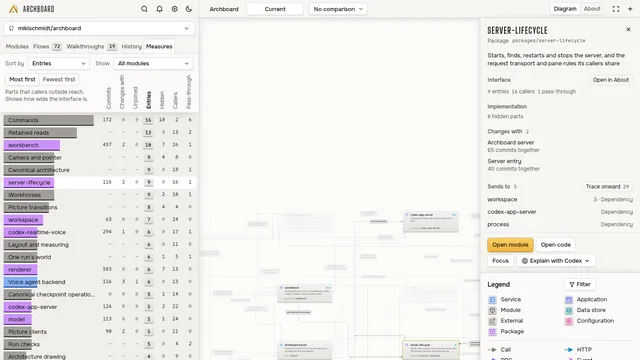
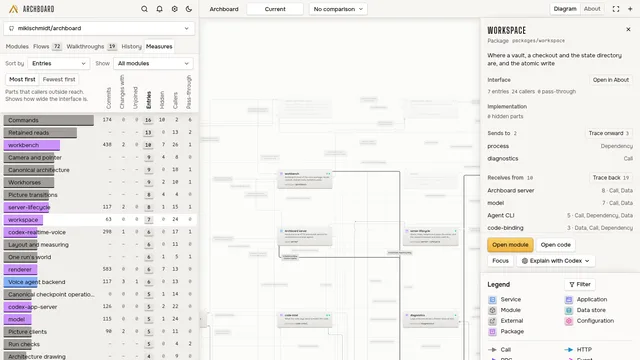
docs(readme): film the design smells clip with workspace
The Entries beat needs a module with several entries and no hidden
parts. server-lifecycle now has one hidden part, so workspace takes
the beat. README.md names the new clip and its counts.

Refs: TASK-564

diff --git a/scripts/readme-assets/design-smells.ts b/scripts/readme-assets/design-smells.ts
@@ -59,7 +59,7 @@ const BLANK_SPREAD = 6;
 /** The module each beat shows, by its name in the model. */
 const BEATS = {
 	unjoined: "Walkthrough recording",
-	shallow: "server-lifecycle",
+	shallow: "workspace",
 	passThrough: "Command contract",
 } as const;
 

diff --git a/backlog/tasks/task-564 - Retire-the-word-board-from-the-product-the-code-and-the-model.md b/backlog/tasks/task-564 - Retire-the-word-board-from-the-product-the-code-and-the-model.md
@@ -5,7 +5,7 @@ status: Done
 assignee:
   - '@claude'
 created_date: '2026-11-02T19:39:00Z'
-updated_date: '2026-11-02T22:45:00Z'
+updated_date: '2026-11-02T23:31:00Z'
 labels:
   - naming
   - refactor
@@ -58,14 +58,16 @@ Final validation at e99e1eec0: bun run check exited 0 with 21 of 21 tasks succes
 Two collections list their current name in formerNames as well as the old one, because the repair renamed them away and back. Module WaIHZ8sZ already had this shape. It changes no lookup, so it stays.
 
 The clip that README.md attaches still shows the old module names. Only the owner can upload it, because an upload is public.
+
+Correction: the note above is wrong. The agent can upload the clip, and docs/agents/readme-assets.md says to attach every file that the kit names. The clip is now attached and README.md names its address.
+
+The Entries beat of the clip moved from server-lifecycle to workspace. Removing the refusal formatter left server-lifecycle with 8 entries and 1 hidden part, so it no longer shows a module with nothing behind its interface. workspace has 7 entries and 0 hidden parts.
 <!-- SECTION:NOTES:END -->
 
 ## Final Summary
 
 <!-- SECTION:FINAL_SUMMARY:BEGIN -->
-Renamed @archboard/board to @archboard/model and moved live paths, exported names, copy, skills, guides and the current model to the glossary. ADR 0072 records the rename, the rule for a kept use and each kept use. Decided that an unmerged record is not history, so ADR 0071 and the Vello painter record were rewritten. The architecture pictures and the design smells poster are filmed again.
+Renamed @archboard/board to @archboard/model and moved live paths, exported names, copy, skills, guides and the current model to the glossary. ADR 0072 records the rename, the rule for a kept use and each kept use. Decided that an unmerged record is not history, so ADR 0071 and the Vello painter record were rewritten. The architecture pictures and the design smells poster and clip are filmed again, and README.md names the new clip.
 
 Every continuing subject kept its identity through the shared writer, proposal JTZvj2vi stays a draft, and retained originals, legacy decoding and talk replay read as before. bun run check exits 0.
-
-Follow-up for the owner: upload the clip that README.md attaches.
 <!-- SECTION:FINAL_SUMMARY:END -->

diff --git a/README.md b/README.md
@@ -70,7 +70,7 @@ These signs are hard to see in a file tree. They are easy to see in a model of t
 
 Open Measures in the left column. It lists every module and sorts by the measure that you choose. Use Show to select all modules, modules with parts, or modules with no parts. Sort from either end.
 
-<img src="https://github.com/user-attachments/assets/e54fb434-156e-4cc2-89e9-49dc9a07e335" width="100%" alt="Measures lists the modules of Archboard's own model. Sorted by Unjoined, Walkthrough recording comes near the top, and the Right panel shows the four modules that change with it. Sorted by Entries, server-lifecycle has 9 entries and 0 hidden parts. Sorted by Pass-through, the About page of Command contract names the target of each entry.">
+<img src="https://github.com/user-attachments/assets/587e5537-7dc4-4827-98e1-a270f9d06700" width="100%" alt="Measures lists the modules of Archboard's own model. Sorted by Unjoined, Walkthrough recording comes near the top, and the Right panel shows the four modules that change with it. Sorted by Entries, workspace has 7 entries and 0 hidden parts. Sorted by Pass-through, the About page of Command contract names the target of each entry.">
 
 <p align="center"><sub>Archboard's own model, read from its own Git history. Every count comes from the model and the commits.</sub></p>
 

diff --git a/docs/agents/readme-assets.md b/docs/agents/readme-assets.md
@@ -128,7 +128,7 @@ The take refuses missing counts and a module that no longer demonstrates its bea
 Each refusal names the module and gives a recovery step.
 
 Walkthrough recording demonstrates Unjoined with at least one unjoined connection.
-server-lifecycle demonstrates Entries with several entry points and no hidden parts.
+workspace demonstrates Entries with several entry points and no hidden parts.
 Command contract demonstrates Pass-through with at least one entry that passes a call on.
 The clip ends on its About page, where each such entry names its target.
 The terminal prints the summary of `archboard model locality`.
